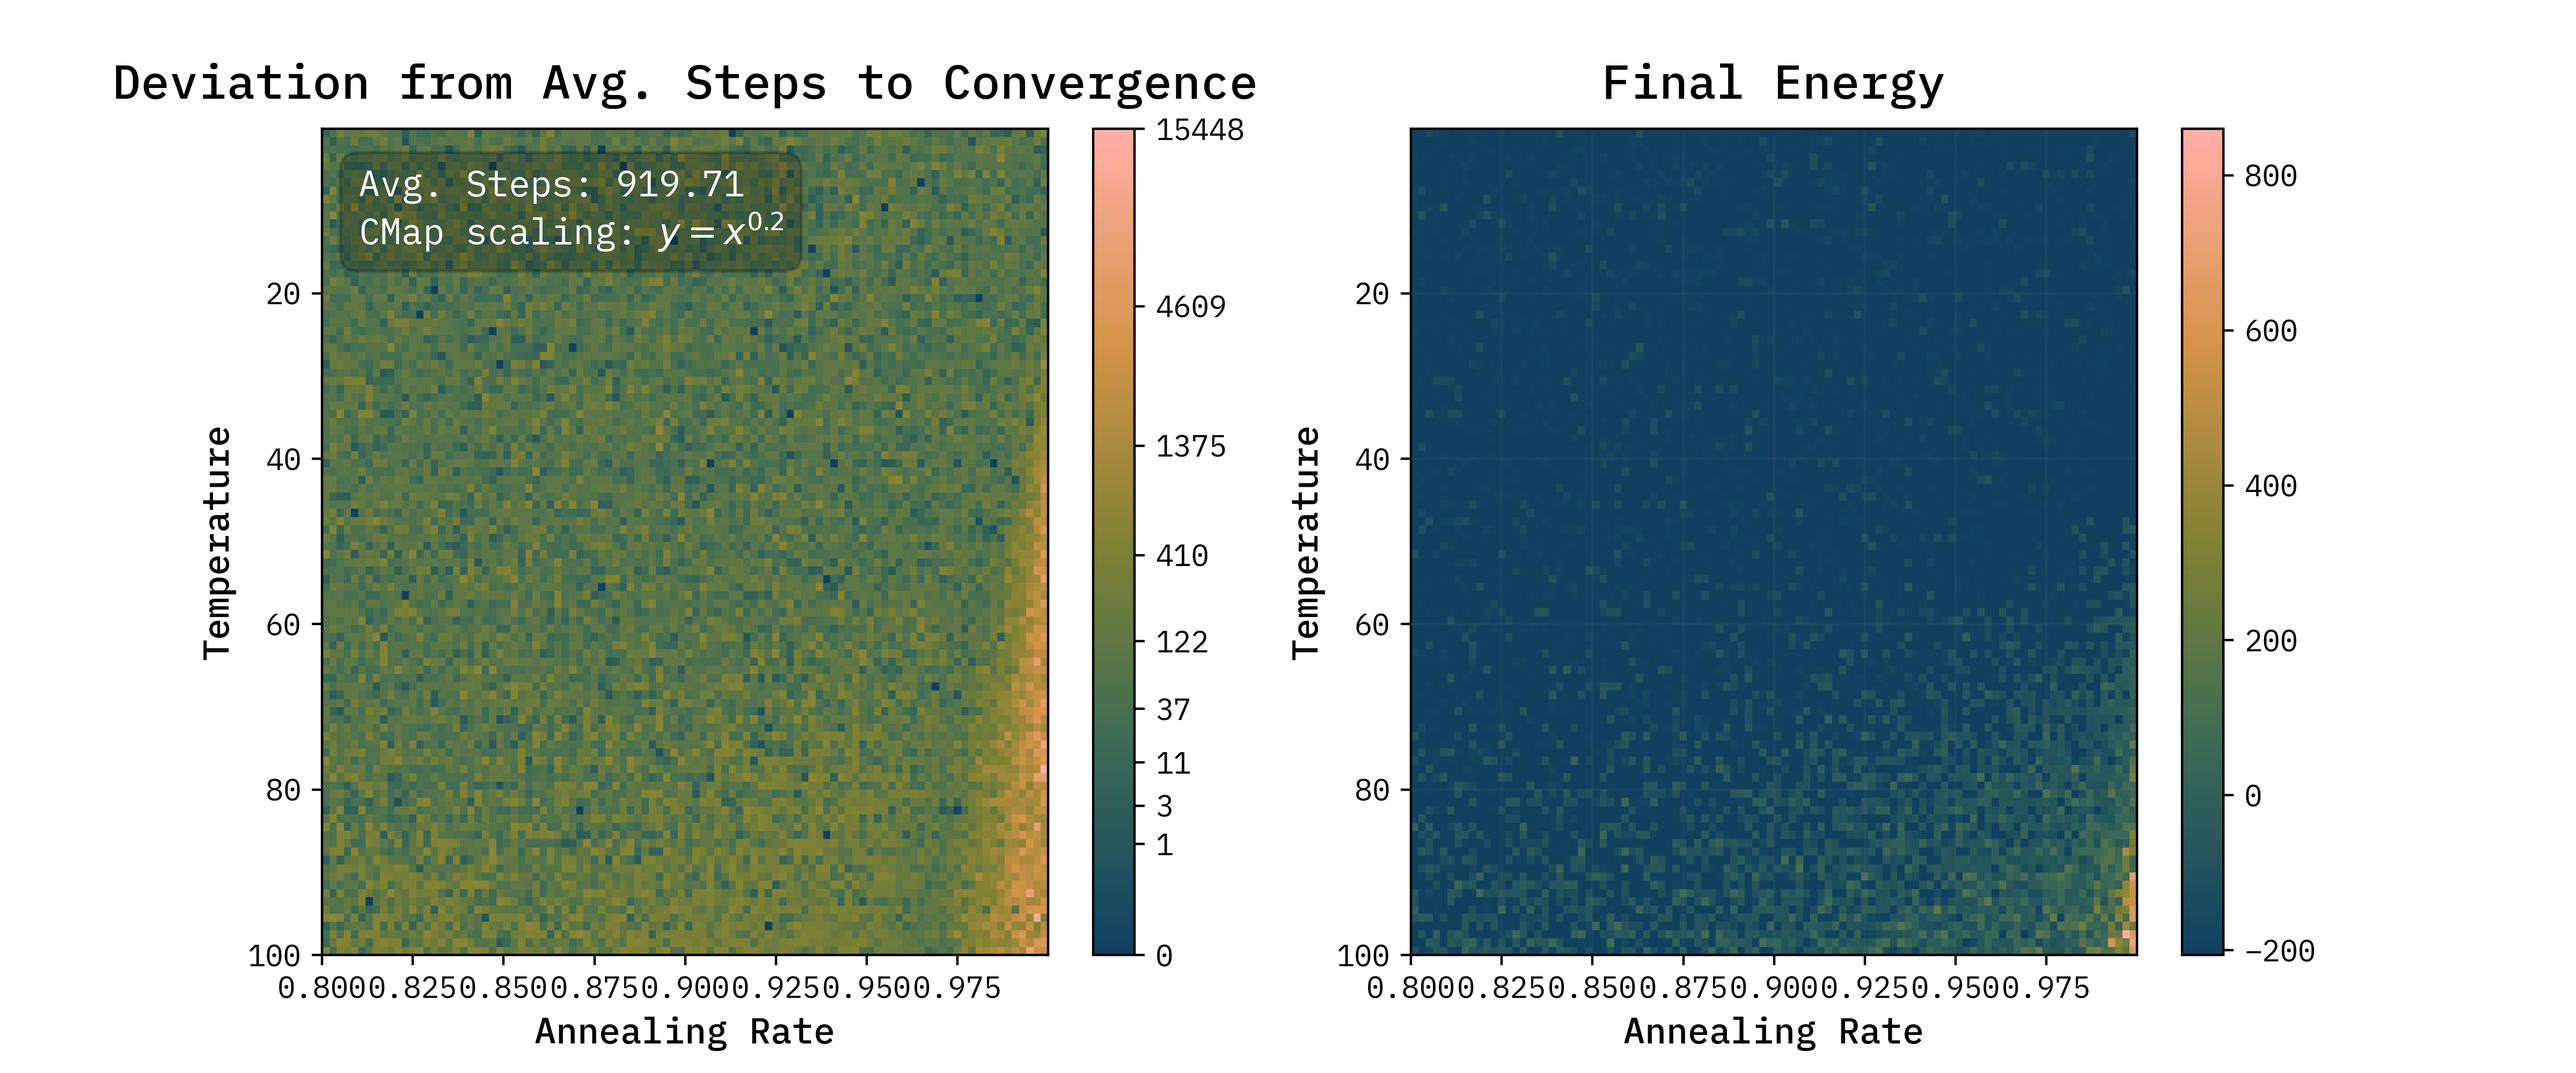
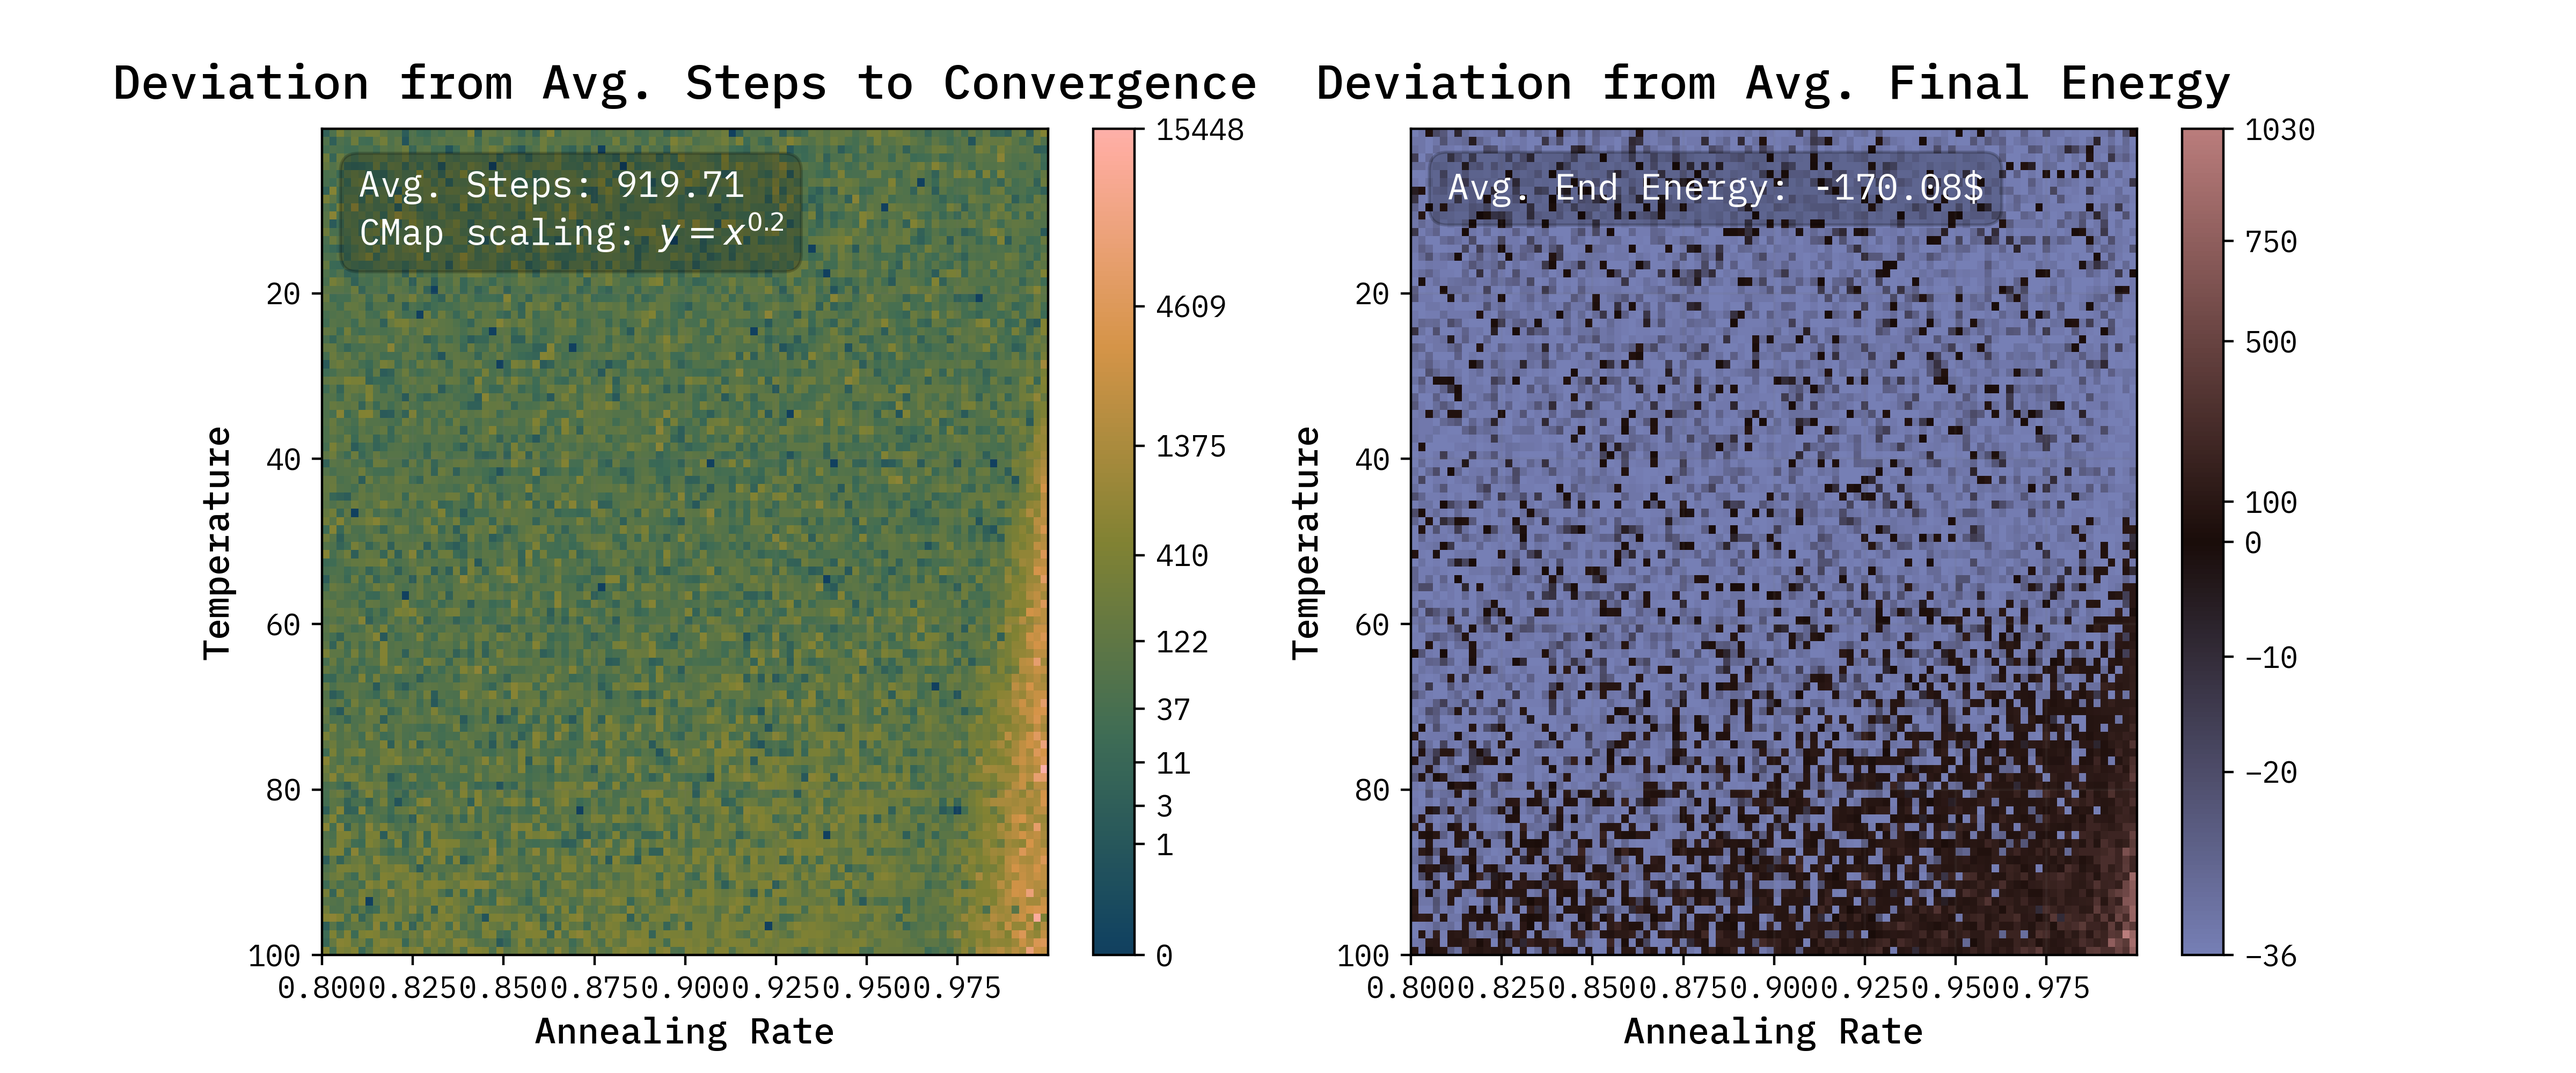
feat: :art: add first gridscan plot

Changed region(s): [[0.5, 0.062, 0.9062, 0.899]]

diff --git a/MolecularChain2/Code/T-aR-grid-plot.py b/MolecularChain2/Code/T-aR-grid-plot.py
@@ -44,12 +44,12 @@ with h5py.File(save_path, "r") as f:
 
 # Calculate statistics
 steps_to_convergence = np.array(steps_to_convergence)
-print(steps_to_convergence.shape)
 avg_steps = np.mean(steps_to_convergence)
 delta_steps = np.abs(steps_to_convergence - avg_steps)
 
 end_energy = np.array(end_energy)
-print(end_energy.shape)
+avg_energy = np.mean(end_energy)
+delta_energy = end_energy - avg_energy
 
 # Plot data as 2 heatmaps
 colors = ["#37123c","#d72483","#ddc4dd","#60afff","#98CE00"]
@@ -67,24 +67,33 @@ ax[0].imshow(delta_steps, cmap=cm, aspect="auto", norm=norm,
 cbar = plt.colorbar(sm, ax=ax[0])
 cbar.set_ticks(np.logspace(np.log10(delta_steps.min()), np.log10(delta_steps.max()), 10))
 avg_steps_text = f"Avg. Steps: {avg_steps:.2f}\nCMap scaling: $y=x^{{{0.2}}}$"
-ax[0].text(0.05, 0.9, avg_steps_text, transform=ax[0].transAxes,
-           fontsize=12, verticalalignment='center', horizontalalignment='left',
+ax[0].text(0.05, 0.95, avg_steps_text, transform=ax[0].transAxes,
+           fontsize=12, verticalalignment='top', horizontalalignment='left',
            color='white', bbox=dict(facecolor='black', alpha=0.2, edgecolor='black', boxstyle='round,pad=0.5'))
 ax[0].set_xlabel("Annealing Rate")
 ax[0].set_ylabel("Temperature")
 ax[0].set_title("Deviation from Avg. Steps to Convergence")
 
 
-norm = mpl.colors.Normalize(vmin=end_energy.min(), vmax=end_energy.max())
+# Plot 2
+cm = pl.scientific.diverging.Berlin_3.mpl_colormap
+cm = cmr.get_sub_cmap(cm, 0.15, 0.85, N=len(range(int(delta_energy.min()), int(delta_energy.max()))))
+norm = mpl.colors.TwoSlopeNorm(vmin=delta_energy.min(), vmax=delta_energy.max(), vcenter=0)
 sm = plt.cm.ScalarMappable(cmap=cm, norm=norm)
 
-ax[1].imshow(end_energy, cmap=cm, aspect="auto",
+ax[1].imshow(delta_energy, cmap=cm, aspect="auto", norm=norm,
                 extent=[anneal_values[0], anneal_values[-1], T_values[-1], T_values[0]])
+cbar = plt.colorbar(sm, ax=ax[1])
+manual_ticks = np.array([delta_energy.min(), -20, -10, 0, 100, 500, 750, delta_energy.max()])
+cbar.set_ticks(manual_ticks)
+avg_steps_text = f"Avg. End Energy: {avg_energy:.2f}$"
+ax[1].text(0.05, 0.95, avg_steps_text, transform=ax[1].transAxes,
+           fontsize=12, verticalalignment='top', horizontalalignment='left',
+           color='white', bbox=dict(facecolor='black', alpha=0.2, edgecolor='black', boxstyle='round,pad=0.5'))
 
 ax[1].set_xlabel("Annealing Rate")
 ax[1].set_ylabel("Temperature")
-ax[1].set_title("Final Energy")
-plt.colorbar(sm, ax=ax[1])
+ax[1].set_title("Deviation from Avg. Final Energy")
 
 plt.savefig("./MolecularChain2/Images/T-aR-gridscan.png", dpi=400)
 plt.tight_layout()
